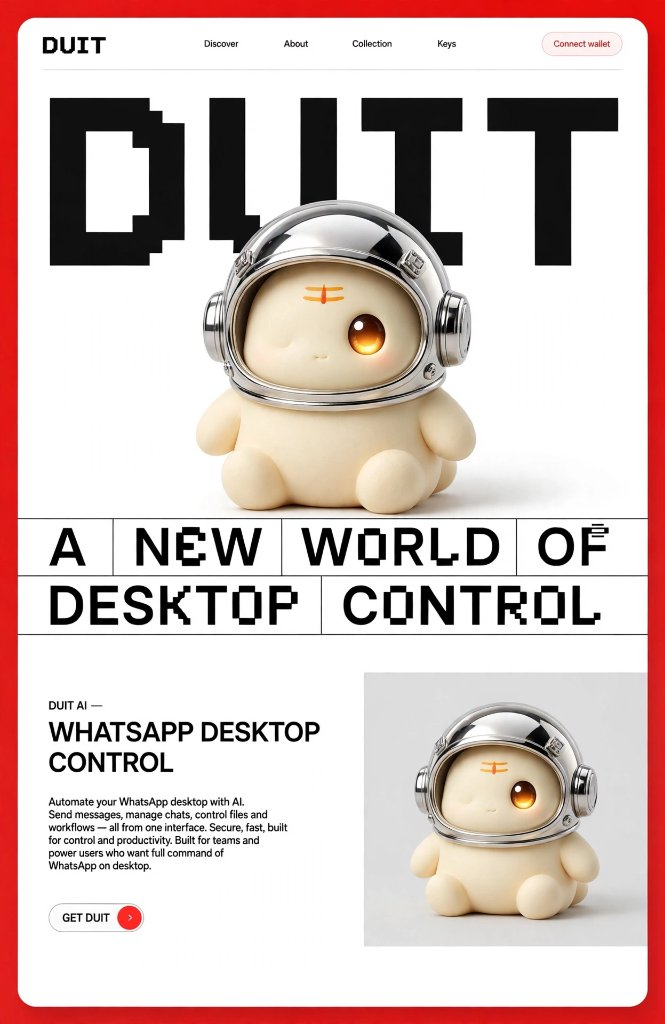
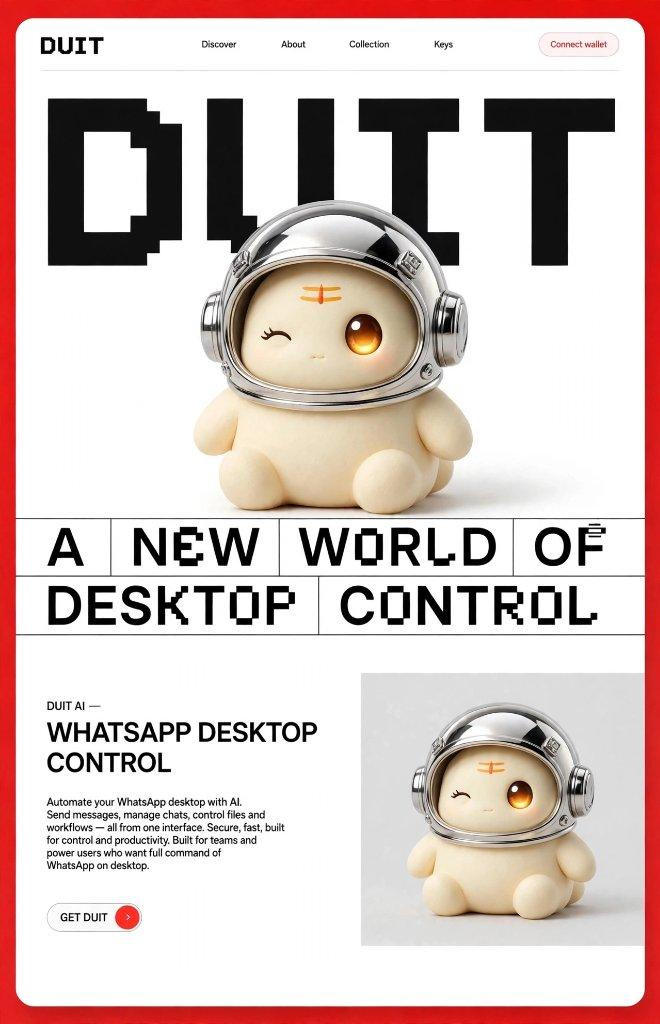
feat(branding): add dual-eye winking mascot with glowing amber eye across hero and corner dock

diff --git a/backend/app/static/index.html b/backend/app/static/index.html
@@ -834,7 +834,7 @@
   <div id="duit-corner-mascot" class="corner-mascot" title="Click to interact with DUIT!">
     <div id="corner-bubble" class="corner-speech-bubble" style="display: none;"></div>
     <div class="mascot-seated" id="mascot-seated-body">
-      <img src="/static/duit-mascot.png" alt="DUIT Companion Mascot" style="width: 100%; height: 100%; object-fit: contain; filter: drop-shadow(0 6px 14px rgba(0,0,0,0.25)); pointer-events: none;">
+      <img src="/static/duit-mascot-wink.png" alt="DUIT Companion Mascot" style="width: 100%; height: 100%; object-fit: contain; filter: drop-shadow(0 6px 14px rgba(0,0,0,0.25)); pointer-events: none;">
     </div>
     <div class="corner-shadow"></div>
   </div>

diff --git a/web/index.html b/web/index.html
@@ -834,7 +834,7 @@
   <div id="duit-corner-mascot" class="corner-mascot" title="Click to interact with DUIT!">
     <div id="corner-bubble" class="corner-speech-bubble" style="display: none;"></div>
     <div class="mascot-seated" id="mascot-seated-body">
-      <img src="/static/duit-mascot.png" alt="DUIT Companion Mascot" style="width: 100%; height: 100%; object-fit: contain; filter: drop-shadow(0 6px 14px rgba(0,0,0,0.25)); pointer-events: none;">
+      <img src="/static/duit-mascot-wink.png" alt="DUIT Companion Mascot" style="width: 100%; height: 100%; object-fit: contain; filter: drop-shadow(0 6px 14px rgba(0,0,0,0.25)); pointer-events: none;">
     </div>
     <div class="corner-shadow"></div>
   </div>
